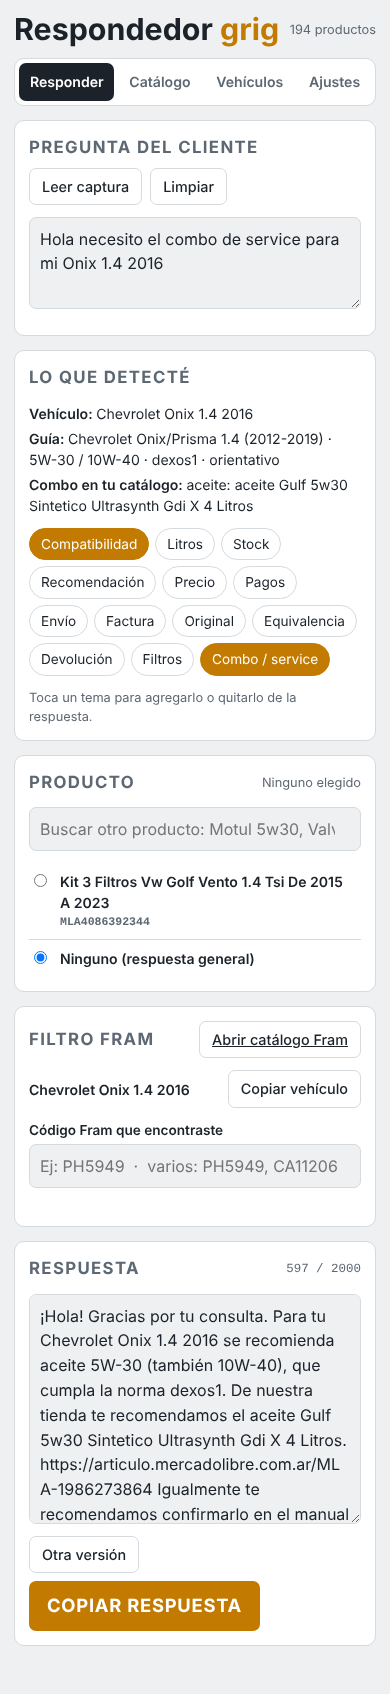
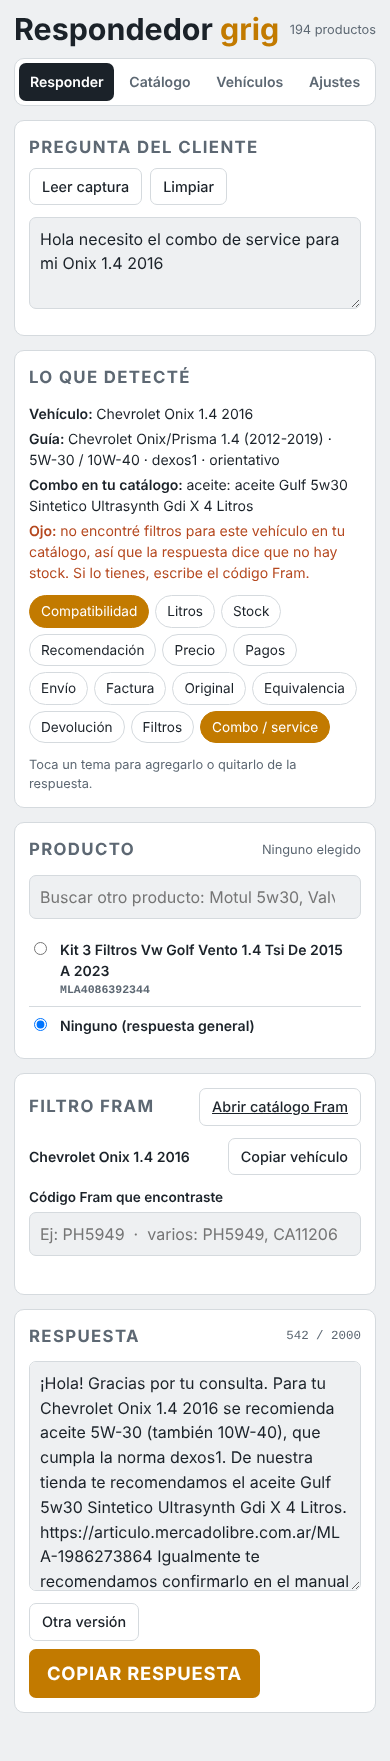
Filtros: avisar que no hay stock cuando el cliente dio todos los datos
Si la pregunta trae vehículo, motor y año y no hay un filtro que le sirva en el
catálogo, la respuesta dice que no hay stock en este momento (con aviso para el
vendedor). Además se descartan filtros cuyo título no coincide con el motor o
los años del vehículo.

Claude-Session: https://claude.ai/code/session_019EL6JgXRSoakvXpns3krCf

Changed region(s): [[0.0308, 0.0, 0.9231, 0.706], [0.0615, 0.7367, 0.9231, 0.9823], [0.8, 0.0307, 0.9231, 0.0614]]

diff --git a/index.html b/index.html
@@ -601,6 +601,18 @@ const Engine = (() => {
     if (/(combustible|nafta|gasoil)/.test(n)) return "combustible";
     return null;
   }
+  // Un filtro le sirve al vehículo si su título nombra el modelo y no contradice el motor ni los años
+  function filterFits(it, veh) {
+    if (!veh || !veh.model) return true;
+    const n = norm(it.t), words = n.split(/[^a-z0-9.]+/);
+    if (!veh.model.split(" ").every((t) => words.includes(t))) return false;
+    const engs = (n.match(/\b\d[.,]\d\b/g) || []).map((e) => e.replace(",", "."));
+    if (veh.engine && engs.length && !engs.includes(veh.engine)) return false;
+    const yr = n.match(/\b((?:19|20)\d\d)\s*(?:a|al|-|hasta)\s*((?:19|20)\d\d)\b/);
+    if (veh.year && yr && (Number(veh.year) < Number(yr[1]) || Number(veh.year) > Number(yr[2]))) return false;
+    return true;
+  }
+
   function comboFor(catalog, veh, g, q) {
     const res = { oil: null, filters: [] };
     if (!veh || !veh.model) return res;
@@ -619,7 +631,7 @@ const Engine = (() => {
     const byCat = {};
     catalog.forEach((it) => {
       prep(it);
-      if (!/filtro/.test(it._n) || !mt.every((t) => has(it._n, t))) return;
+      if (!/filtro/.test(it._n) || !mt.every((t) => has(it._n, t)) || !filterFits(it, veh)) return;
       const c = filterCat(it._n);
       if (c) (byCat[c] = byCat[c] || []).push(it);
     });
@@ -716,11 +728,13 @@ const Engine = (() => {
     } else if (wantsFilters && veh && veh.model) {
       const fl = combo.filters;
       if (fl.length) out.push("Para tu " + veh.label + " tenemos " + fl.map((f) => "el filtro de " + f.cat + " " + filterName(f.it.t) + lk(f.it)).join(", ") + ".");
+      else if (isFilter && !fram.length) out.push("Para tu " + veh.label + " tenemos el " + P + ".");
       else if (guide && guide.fa && !isFilter) out.push("Para tu " + veh.label + " el filtro de aceite que corresponde es " + guide.fa + (guide.fai ? " y el de aire es " + guide.fai : "") + ".");
       else if (!isFilter && !asked) {
         asked = true;
-        const miss = [!veh.year && "año", !veh.engine && "motor"].filter(Boolean).join(" y ");
-        out.push(!miss ? "Si nos pasás el código del filtro que tiene colocado tu " + veh.label + ", te confirmamos cuál de nuestros filtros le corresponde."
+        const miss = [!veh.year && "año", !(veh.engine || /\d+cc/.test(veh.label)) && "motor"].filter(Boolean).join(" y ");
+        // Con todos los datos y sin filtro en el catálogo: se avisa que no hay stock
+        out.push(!miss ? "En este momento no contamos con stock del filtro para tu " + veh.label + "."
           : "Para indicarte el filtro exacto de tu " + veh.label + ", ¿nos pasás " + miss + ", o el código del filtro que tiene colocado?");
       }
       if (prod && !isFilter && !vehTalk && pv && gv && pv === gv) out.push("Además, el " + P + " es " + fmtVisc(pv) + ", ideal para tu " + veh.label + "." + lk(prod));
@@ -822,7 +836,7 @@ const Engine = (() => {
     return { question, product };
   }
 
-  return { parseCodes, framCat, findByCode, parseScreenshot, cleanProduct, ANCHOR, PROD_ROW, norm, tokens, INTENTS, detectIntents, extractVehicle, findGuide, matchVehicles, comboFor, VEHICLES, vehName, viscOf, litersOf, scoreItems, keyOf, linkOf, parseListing, compose, similarity, extractQuestion, money, prodName };
+  return { filterFits, parseCodes, framCat, findByCode, parseScreenshot, cleanProduct, ANCHOR, PROD_ROW, norm, tokens, INTENTS, detectIntents, extractVehicle, findGuide, matchVehicles, comboFor, VEHICLES, vehName, viscOf, litersOf, scoreItems, keyOf, linkOf, parseListing, compose, similarity, extractQuestion, money, prodName };
 })();
 </script>
 
@@ -902,7 +916,7 @@ const Engine = (() => {
     if (!state.prodManual) {
       // Un filtro solo se elige solo si su título nombra el vehículo de la pregunta
       const v2 = E.extractVehicle(q);
-      const fits = (it) => !/filtro/i.test(it.t) || !(v2 && v2.model) || v2.model.split(" ").every((t) => E.norm(it.t).split(/[^a-z0-9.]+/).includes(t));
+      const fits = (it) => !/filtro/i.test(it.t) || E.filterFits(it, v2);
       const top = E.scoreItems(catalog, q).find((x) => fits(x.it));
       state.prodKey = top && top.s >= 3.5 ? E.keyOf(top.it) : state.listingKey;
     }
@@ -937,6 +951,9 @@ const Engine = (() => {
         const parts = [combo.oil && "aceite: " + E.prodName(combo.oil.t), ...combo.filters.map((x) => "filtro de " + x.cat + ": " + E.prodName(x.it.t))].filter(Boolean);
         fact("Combo en tu catálogo", parts.length ? parts.join(" · ") : "no encontré productos que nombren este vehículo", parts.length ? "" : "warn");
       }
+      const filterQ = intents.has("filtros") || intents.has("combo") || intents.has("equivalencia");
+      if (filterQ && veh && veh.model && veh.year && (veh.engine || /\d+cc/.test(veh.label)) && !combo.filters.length && !E.parseCodes($("framCode").value).length && !(prod && /filtro/i.test(prod.t)))
+        fact("Ojo", "no encontré filtros para este vehículo en tu catálogo, así que la respuesta dice que no hay stock. Si lo tienes, escribe el código Fram.", "warn");
       const vs = E.viscOf(q); if (vs.length) fact("Viscosidad", vs.map((v) => v.toUpperCase().replace("W", "W-")).join(", "));
       if (!intents.size) fact("Tema", "no lo detecté, elige uno abajo", "warn");
       if (alt && prod) fact("Ojo", "el producto elegido es " + pv.toUpperCase() + " y la guía indica " + g.visc, "warn");
